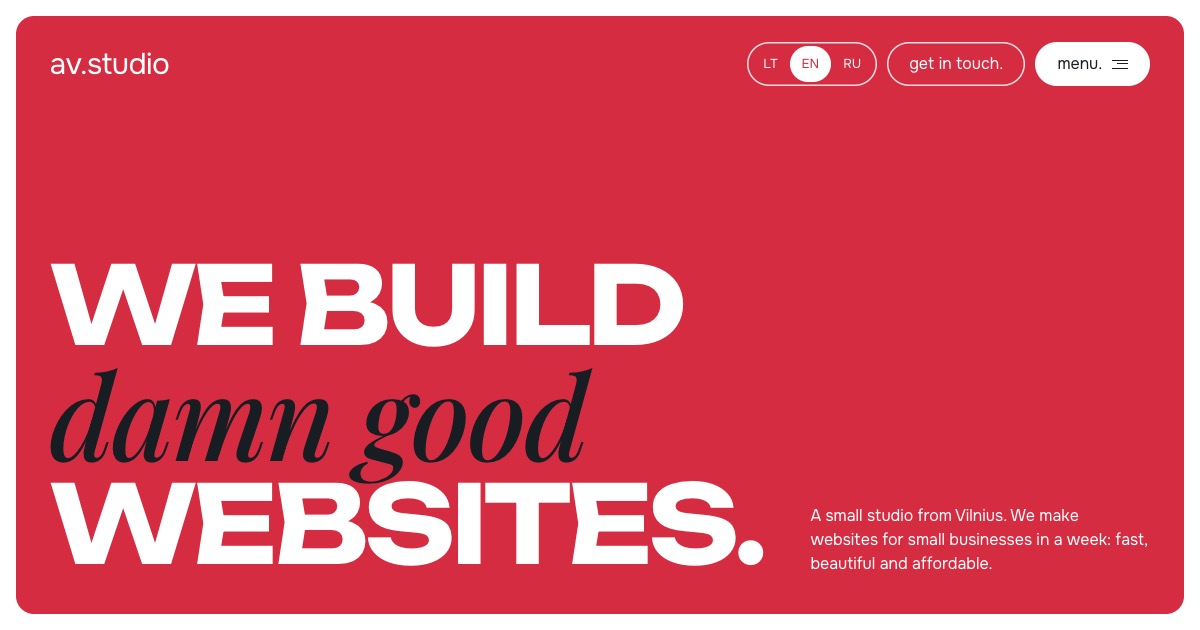
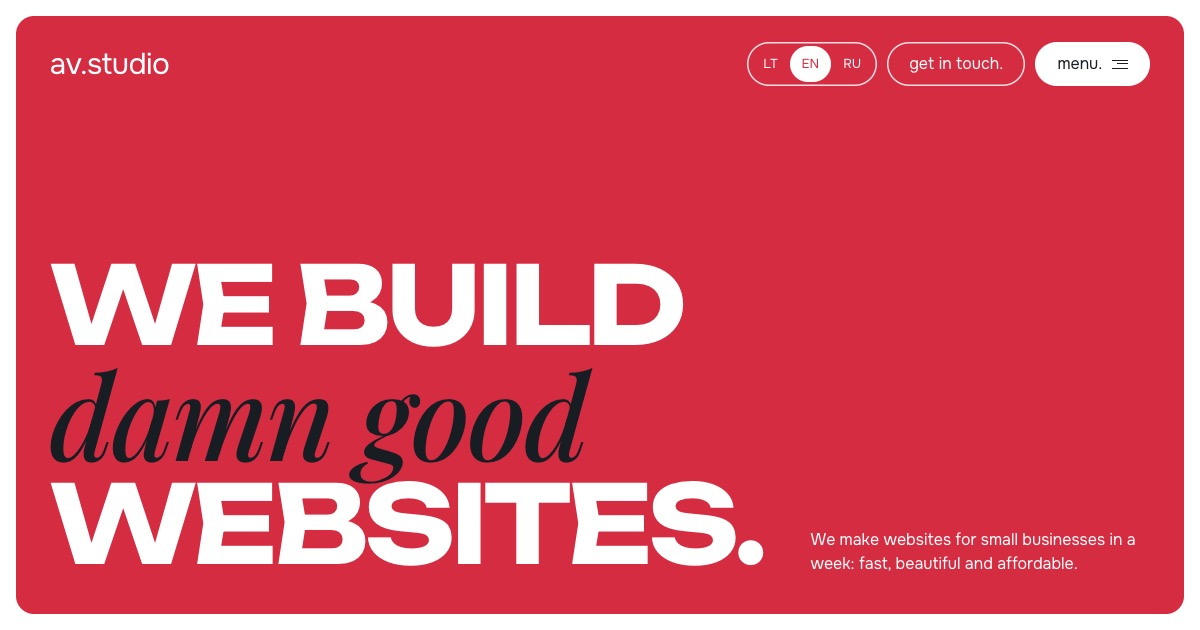
Hero text: drop the 'small studio from Vilnius' line

Changed region(s): [[0.6783, 0.8143, 0.9558, 0.9048]]

diff --git a/index.html b/index.html
@@ -300,7 +300,7 @@ footer .logo{font-size:30px}
 
   <div class="in hero-main">
     <div class="hbox"><h1 data-i="h1">We build<br><em>damn good</em><br>websites.</h1></div>
-    <p data-i="hero_p">A small studio from Vilnius. We make websites for small businesses in a week: fast, beautiful and affordable.</p>
+    <p data-i="hero_p">We make websites for small businesses in a week: fast, beautiful and affordable.</p>
   </div>
 </header>
 
@@ -539,7 +539,7 @@ const T = {
   lt:{
     nav_work:'Darbai',nav_services:'Paslaugos',nav_process:'Procesas',nav_faq:'DUK',touch:'parašyti.',menu:'meniu.',close:'uždaryti.',
     h1:'Kuriame<br><em>velniškai</em><br>geras<br>svetaines.',city:'Vilnius',
-    hero_p:'Nedidelė studija iš Vilniaus. Kuriame svetaines smulkiam verslui per savaitę: greitai, gražiai ir nebrangiai.',
+    hero_p:'Kuriame svetaines smulkiam verslui per savaitę: greitai, gražiai ir nebrangiai.',
     h_work:'Mūsų darbai',case1:'Fotografės portfolio',case4:'Kriptovaliutų paslauga',case2:'Grožio studija · koncepcija',case3:'Renovacija · koncepcija',
     next_t:'Jūsų verslas?',next_k:'Kitas',next_card:'Čia bus<br><em>jūsų svetainė</em>',more:'Noriu tokios pat',
     h_services:'Paslaugos',from:'nuo',discuss:'aptarti',
@@ -584,7 +584,7 @@ const T = {
   ru:{
     nav_work:'Работы',nav_services:'Услуги',nav_process:'Процесс',nav_faq:'Вопросы',touch:'написать.',menu:'меню.',close:'закрыть.',
     h1:'Мы делаем<br><em>чертовски</em><br>хорошие<br>сайты.',city:'Вильнюс',
-    hero_p:'Небольшая студия из Вильнюса. Делаем сайты для малого бизнеса за неделю: быстро, красиво и недорого.',
+    hero_p:'Делаем сайты для малого бизнеса за неделю: быстро, красиво и недорого.',
     h_work:'Наши работы',case1:'Портфолио фотографа',case4:'Крипто-сервис',case2:'Салон красоты · концепт',case3:'Ремонт квартир · концепт',
     next_t:'Ваш бизнес?',next_k:'Следующий',next_card:'Здесь будет<br><em>ваш сайт</em>',more:'Хочу так же',
     h_services:'Услуги',from:'от',discuss:'обсудить',
